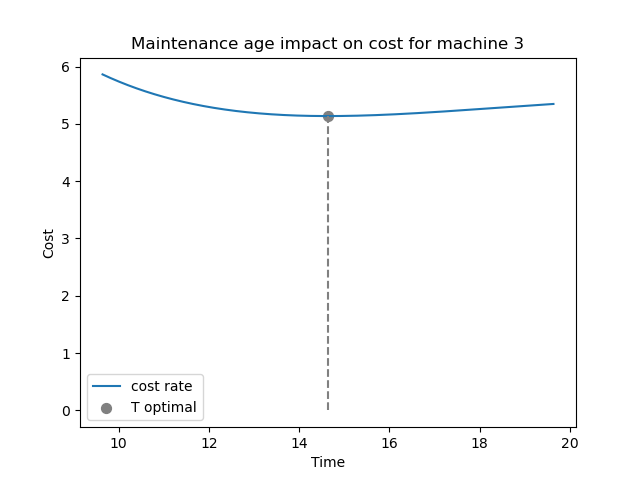
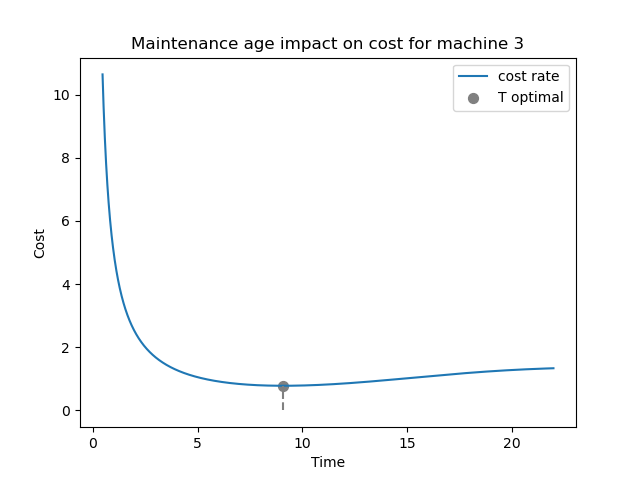
made the cost graphs plot more generic

diff --git a/s4917340-Tool.py b/s4917340-Tool.py
@@ -29,7 +29,6 @@ def data_preparation(machine_data : pd.DataFrame):
     # source: https://sparkbyexamples.com/pandas/pandas-groupby-sort-within-groups/
     machine_data = machine_data.groupby('Duration', group_keys=True).apply(lambda x: x.sort_values(by=['Event'], ascending=False))
     machine_data = machine_data.reset_index(drop=True)
-    print(machine_data)
 
     return machine_data
 
@@ -85,6 +84,7 @@ def plot_kaplanmeier_estimation(data, machine_name):
     plt.title(f'Kaplan-Meier estimator for machine {machine_name}')
     sns.lineplot(x="Duration", y="Reliability", data=data)
     plt.savefig(os.path.join(plot_path, f'Kaplan-Meier-results-machine-{machine_name}.png'))
+    plt.close()
 
 #Weibull distribution fitting
 def fit_weibull_distribution(prepared_data : pd.DataFrame):
@@ -152,24 +152,13 @@ def plot_cost_rates(maintenance_data : pd.DataFrame, machine_name):
     opt_idx = maintenance_data.index[maintenance_data['cost_rate'] == maintenance_data['cost_rate'].min()].values[0]
     optimal_cost_rate = maintenance_data.iloc[opt_idx]['cost_rate']
     optimal_t = maintenance_data.iloc[opt_idx]['t']
+
     fig, ax = plt.subplots()
     ax.set_title(f'Maintenance age impact on cost for machine {machine_name}')
-
-    # specify the number of rows to select above and below
-    if machine_name == 1:
-        N = 1000
-    elif machine_name == 2:
-        N = 91000
-    elif machine_name == 3:
-        N = 500
-    
-    # select the rows above and below the specified row to plot
-    data_to_plot = maintenance_data.iloc[max(0, opt_idx-N) : min(opt_idx+N+1, len(maintenance_data))]
-    # data_to_plot = maintenance_data.iloc[opt_idx-N : opt_idx+N]
+    data_to_plot = maintenance_data[maintenance_data['cost_rate'] <= optimal_cost_rate+10]
     ax.plot(data_to_plot['t'], data_to_plot['cost_rate'], label='cost')
     ax.scatter(x=optimal_t, y=optimal_cost_rate, marker='.', color='gray', s=200)
     ax.vlines(x=optimal_t, ymin=0, ymax=optimal_cost_rate, color='gray', linestyles='dashed', label='T optimal')
-
     ax.set_xlabel('Time')
     ax.set_ylabel('Cost')
     ax.legend(['cost rate', 'T optimal'])
@@ -186,7 +175,6 @@ def create_cost_data(prepared_data : pd.DataFrame, l, k, PM_cost, CM_cost, machi
     # 3. Calculate the mean cost per cycle (MCPC) for each maintenance age 
     maintenance_data['MCPC'] = CM_cost * maintenance_data['F_t'] + PM_cost * maintenance_data['R_t']
     # 4. Calculate the mean cycle length (MCL) by approximating the area under curve using Riemann sum
-
     delta = 0.01
     cumulative_sum = maintenance_data['R_t'].cumsum()
     maintenance_data['riemann_sum'] = cumulative_sum * delta
@@ -250,15 +238,21 @@ def CBM_create_cost_data(prepared_condition_data : pd.DataFrame, PM_cost, CM_cos
 
     # get the optimal maintenance threshold & cost rate
     optimal = CBM_cost_data[CBM_cost_data['cost_rate'] == CBM_cost_data['cost_rate'].min()]
-    
+
     N = 10
     fig, ax = plt.subplots()
-    CBM_cost_data[N:].plot(
+    # CBM_cost_data[N:].plot(
+    #     title=f'Cost rate for different maintenance thresholds machine {machine_name}', 
+    #     xlim=(N,thresholds[-1]), 
+    #     ylim=(0, math.ceil(CBM_cost_data[N:]['cost_rate'].max())),
+    #     ax=ax
+    # )
+
+    CBM_cost_data.plot(
         title=f'Cost rate for different maintenance thresholds machine {machine_name}', 
-        xlim=(N,thresholds[-1]), 
-        ylim=(0, math.ceil(CBM_cost_data[N:]['cost_rate'].max())),
         ax=ax
-    )
+    )    
+
     ax.scatter(x=optimal.index, y=optimal['cost_rate'], marker='.', color='gray', s=200)
     ax.vlines(x=optimal.index, ymin=0, ymax=optimal['cost_rate'], color='gray', linestyles='dashed')
     ax.legend(['Cost rates', 'Threshold optimal'])
@@ -305,8 +299,8 @@ def run_analysis(machine_name, PM_cost, CM_cost, analyse_CBM = 'no'):
         failure_level = prepared_condition_data['Condition'].max()
 
         CBM_cost_rate, CBM_threshold = CBM_create_cost_data(prepared_condition_data, PM_cost, CM_cost, failure_level, machine_name) 
-        print('The optimal cost rate under CBM is ', CBM_cost_rate) 
-        print('The optimal CBM threshold is ', CBM_threshold)
+        print('The optimal cost rate under CBM is', CBM_cost_rate) 
+        print('The optimal CBM threshold is', CBM_threshold)
     
     return
 
@@ -341,8 +335,7 @@ def run():
             break
 
 # run the program
-# run()
-run_analysis(3, 50, 80)
+run()
 
 
 
